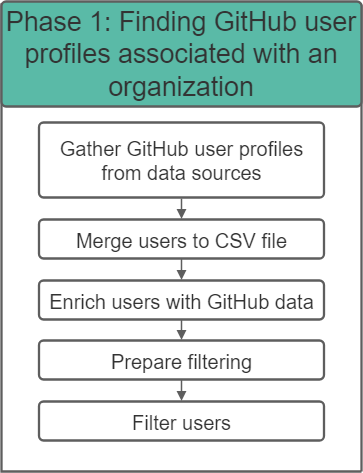
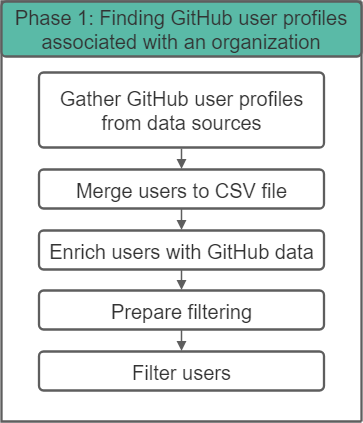
Revert graphics decrease and use correct graphic

diff --git a/paper/paper.md b/paper/paper.md
@@ -36,9 +36,9 @@ bibliography: paper.bib
 SWORDS (Scan and revieW of Open Research Data and Software) is a framework designed to provide insights into an organization's, as well as their members open-source activities, through a structured approach. The framework focuses on organizations within the research domain by taking academic publishing principles into account. A big challenge for such a framework lies in the decentralization of open-source activities. It is divided into three core stages that can be executed independently:
 
 1. Finding GitHub user profiles associated with an organization.  
-   ![Phase 1](phase_1.png){width=45%}
+   ![Phase 1](phase_1.png){width=50%}
 2. Extracting relevant repositories.  
-   ![Phase 2](phase_2.png){width=45%}
+   ![Phase 2](phase_2.png){width=50%}
 3. Studying the contents of the repositories. Content evaluation includes aspects of quality assessment, documentation availability, and FAIRness [@wilkinson_fair_2016] scores [@Spaaks_howfairis_2022] (Findability, Accessibility, Interoperability, and Reusability).  
    ![Phase 3](phase_3.png){width=50%}
 
